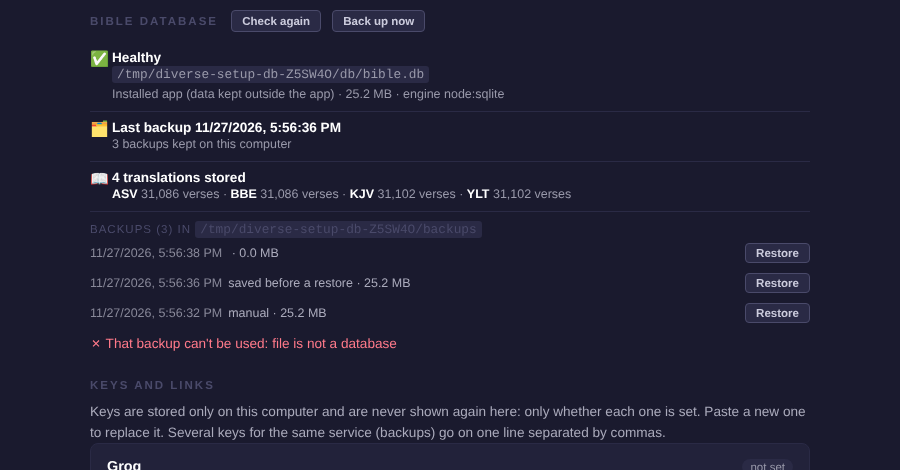
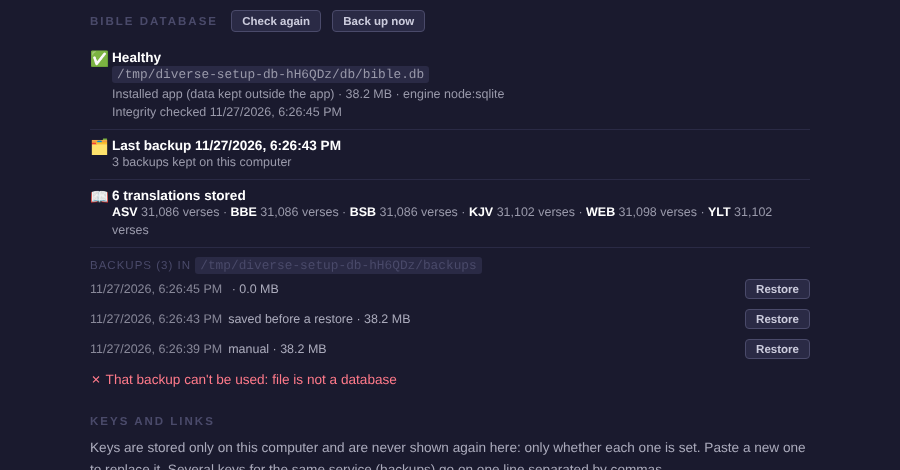
Database health: no blocking integrity check on every Setup load
Measured on a 360 MB library: a full PRAGMA integrity_check takes about
1.8-2.3 s (quick_check 0.5 s), and both run synchronously, so opening
Setup during a service froze projection and listening for that long.

The health report now shows the result and time of the last full check
of the live database (from Check again, or after a restore) and runs a
new one only on request (GET /api/db/health?integrity=1, the Check again
button, whose tooltip warns against using it live). Backups and restores
still check integrity every time. A failed restore clears the stale
result after rolling back. Tests cover: plain report runs no check, a
requested check records result and time, and the last result is
reported afterwards.

diff --git a/public/setup/index.html b/public/setup/index.html
@@ -56,7 +56,7 @@
     <a id="repExport" href="/api/diag/export" class="btn btn-dim" style="padding:4px 10px;font-size:0.72rem;margin-left:6px;letter-spacing:0;text-transform:none;text-decoration:none;">Export</a></h2>
   <div id="report"><p>Loading…</p></div>
 
-  <h2>Bible database <button class="btn btn-dim" style="padding:4px 10px;font-size:0.72rem;margin-left:8px;letter-spacing:0;text-transform:none;" onclick="loadDb()">Check again</button>
+  <h2>Bible database <button class="btn btn-dim" style="padding:4px 10px;font-size:0.72rem;margin-left:8px;letter-spacing:0;text-transform:none;" onclick="loadDb(true)" title="Runs a full integrity check: a few seconds on a large library, during which Di.Verse pauses. Avoid during a live service.">Check again</button>
     <button class="btn btn-dim" style="padding:4px 10px;font-size:0.72rem;margin-left:6px;letter-spacing:0;text-transform:none;" onclick="backupNow()">Back up now</button></h2>
   <div id="dbHealth"><p>Checking…</p></div>
   <div id="dbBackups"></div>
@@ -128,18 +128,21 @@
   // Which Bible database is in use, whether it's healthy, what's in it, and its backups
   function mb(b) { return b == null ? '—' : (b / 1048576).toFixed(1) + ' MB'; }
   function dbSay(t, ok) { var m = document.getElementById('dbMsg'); m.className = ok ? 'ok' : 'err'; m.textContent = t; }
-  async function loadDb() {
+  // full: run the full integrity check now (Check again); otherwise show the last result
+  async function loadDb(full) {
     var el = document.getElementById('dbHealth'), bl = document.getElementById('dbBackups');
     try {
-      var h = await (await fetch('/api/db/health')).json();
+      var h = await (await fetch('/api/db/health' + (full ? '?integrity=1' : ''))).json();
       if (h.error) throw new Error(h.error);
       var good = h.exists && h.readable && h.integrity === 'ok';
+      var unchecked = h.exists && h.readable && h.integrity == null;
       var row = function(icon, name, detail) { return '<div class="chk"><div class="dot">' + icon + '</div><div><b>' + esc(name) + '</b><span class="d">' + detail + '</span></div></div>'; };
       el.innerHTML =
-        row(good ? '✅' : '❌', good ? 'Healthy' : (!h.exists ? 'Database file not found' : !h.readable ? 'Database file can\'t be read' : 'Integrity check failed'),
+        row(good ? '✅' : unchecked ? '🔎' : '❌', good ? 'Healthy' : unchecked ? 'Found and readable · integrity not checked yet' : (!h.exists ? 'Database file not found' : !h.readable ? 'Database file can\'t be read' : 'Integrity check failed'),
           '<code>' + esc(h.database) + '</code><br>' + (h.mode === 'packaged' ? 'Installed app (data kept outside the app)' : 'Running from the code folder (development)') +
           ' · ' + mb(h.bytes) + (h.walBytes ? ' + ' + mb(h.walBytes) + ' not yet written in' : '') + ' · engine ' + esc(h.engine) +
-          (h.integrity && h.integrity !== 'ok' ? '<br><span class="err">' + esc(h.integrity) + '</span>' : '')) +
+          (h.integrity && h.integrity !== 'ok' ? '<br><span class="err">' + esc(h.integrity) + '</span>' : '') +
+          (h.integrityCheckedAt ? '<br>Integrity checked ' + esc(new Date(h.integrityCheckedAt).toLocaleString()) : unchecked ? '<br>Press <b style="display:inline">Check again</b> to run the full check (a few seconds on a large library; not during a live service).' : '')) +
         row(h.lastBackup ? '🗂' : '⚠', h.lastBackup ? 'Last backup ' + esc(new Date(h.lastBackup).toLocaleString()) : 'No backup yet',
           h.backups + ' backup' + (h.backups === 1 ? '' : 's') + ' kept on this computer' + (h.lastBackup ? '' : '. Make one before importing or removing a translation.')) +
         row('📖', h.translations.length + ' translation' + (h.translations.length === 1 ? '' : 's') + ' stored',

diff --git a/services/dbBackup.js b/services/dbBackup.js
@@ -32,6 +32,12 @@ const NAME = /^bible-[0-9TZ-]+(?:-[a-z0-9-]{1,40})?(?:-\d+)?\.db$/;
 
 const quote = p => "'" + String(p).replace(/'/g, "''") + "'";
 
+// The last full integrity check of the live database: { result, at }.
+// A full check of a large library takes seconds and blocks the server, so
+// the Setup page shows this instead of re-checking on every load; it is
+// refreshed by "Check again", and after every restore.
+let lastCheck = null;
+
 // 'ok', or what SQLite found wrong (first few lines)
 function integrity(db) {
   const rows = db.prepare('PRAGMA integrity_check').all();
@@ -139,12 +145,14 @@ function restore(name, confirm) {
     try {
       swapIn(file);
       const result = integrity(bibleDb.getDb());
+      lastCheck = { result, at: new Date().toISOString() };
       if (result !== 'ok') throw new Error('integrity check after restore failed: ' + result);
     } catch (err) {
       // put the previous database back
       try { bibleDb.closeDb(); } catch (e) {}
       swapIn(path.join(DIR, safety.name));
       bibleDb.getDb();
+      lastCheck = null;   // the failed check was of the file that was taken out again
       afterReopen();
       throw new Error('Restore failed (' + err.message + '). The previous database is back in place.');
     }
@@ -155,7 +163,9 @@ function restore(name, confirm) {
 }
 
 // What the operator sees under Setup → Bible database
-function health() {
+// options.integrity: run a full integrity check now (seconds on a large
+// library, and nothing else is served meanwhile); otherwise report the last one
+function health(options = {}) {
   const file = bibleDb.DB_PATH;
   const out = {
     mode: paths.packaged ? 'packaged' : 'development',
@@ -169,7 +179,9 @@ function health() {
   try { out.walBytes = fs.statSync(file + '-wal').size; } catch (e) { out.walBytes = 0; }
   try {
     const db = bibleDb.getDb();
-    out.integrity = integrity(db);
+    if (options.integrity) lastCheck = { result: integrity(db), at: new Date().toISOString() };
+    out.integrity = lastCheck ? lastCheck.result : null;          // null = not checked since Di.Verse started
+    out.integrityCheckedAt = lastCheck ? lastCheck.at : null;
     const counts = Object.fromEntries(db.prepare('SELECT translation, COUNT(*) AS c FROM verses WHERE substr(source, 1, 3) != \'ai_\' GROUP BY translation').all().map(r => [r.translation, r.c]));
     const meta = Object.fromEntries(db.prepare('SELECT code, name, coverage, source, installed_at FROM translation_meta').all().map(m => [m.code, m]));
     const local = bibleDb.localTranslations();
@@ -188,4 +200,4 @@ function health() {
   return out;
 }
 
-module.exports = { create, list, restore, health, checkFile, DIR };
+module.exports = { create, list, restore, health, checkFile, DIR, _resetLastCheck: () => { lastCheck = null; } };

diff --git a/test/helpers/backupScenario.js b/test/helpers/backupScenario.js
@@ -70,7 +70,7 @@ module.exports = function run(expectedEngine) {
     assert.strictEqual(backup.list().length, before + 1);
     assert.match(r.safetyBackup, /before-restore/);
     assert.strictEqual(countIn(path.join(backup.DIR, r.safetyBackup), 'TST'), 0, 'safety backup is the database that was replaced');
-    assert.strictEqual(backup.health().integrity, 'ok');
+    assert.strictEqual(backup.health({ integrity: true }).integrity, 'ok');
     assert.ok(!fs.existsSync(bibleDb.DB_PATH + '.restoring'));
   });
 
@@ -92,7 +92,7 @@ module.exports = function run(expectedEngine) {
     const n = count('TST');
     assert.throws(() => backup.restore(bad, bad), /can't be used/);
     assert.strictEqual(count('TST'), n);
-    assert.strictEqual(backup.health().integrity, 'ok');
+    assert.strictEqual(backup.health({ integrity: true }).integrity, 'ok');
   });
 
   test('a missing backup and a database that is not a Bible are refused', () => {
@@ -116,11 +116,17 @@ module.exports = function run(expectedEngine) {
       assert.throws(() => backup.restore(first.name, first.name), /Restore failed \(simulated broken file\)\. The previous database is back/);
     } finally { bibleDb.getDb = real; }
     assert.strictEqual(count('TST'), 0, 'the database from before the restore is in place');
-    assert.strictEqual(backup.health().integrity, 'ok');
+    assert.strictEqual(backup.health({ integrity: true }).integrity, 'ok');
   });
 
   test('health reports the active database and its translations', () => {
-    const h = backup.health();
+    backup._resetLastCheck();
+    const quick = backup.health();
+    assert.strictEqual(quick.integrity, null, 'a plain health report does not run the slow check');
+    const h = backup.health({ integrity: true });
+    assert.strictEqual(h.integrity, 'ok');
+    assert.ok(h.integrityCheckedAt);
+    assert.strictEqual(backup.health().integrity, 'ok', 'the last result is reported afterwards');
     assert.strictEqual(h.database, bibleDb.DB_PATH);
     assert.strictEqual(h.mode, 'packaged'); // DIVERSE_DATA is set
     assert.ok(h.exists && h.readable);

diff --git a/test/translation-persistence.test.js b/test/translation-persistence.test.js
@@ -92,7 +92,7 @@ test('it is still there after the server restarts', async () => {
 });
 
 test('database health is operator-only data and reports the translation', async () => {
-  const h = await (await fetch(base + '/api/db/health')).json(); // loopback = operator laptop
+  const h = await (await fetch(base + '/api/db/health?integrity=1')).json(); // loopback = operator laptop
   assert.strictEqual(h.integrity, 'ok');
   assert.ok(h.database.startsWith(temp.dir));
   assert.ok(h.translations.find(x => x.code === 'TST' && x.verses === 174));

diff --git a/routes/database.js b/routes/database.js
@@ -8,7 +8,8 @@ const backup = require('../services/dbBackup');
 router.use('/db', (req, res, next) => req.app.locals.isOperator(req) ? next()
   : res.status(403).json({ error: 'Operator laptop only' }));
 
-router.get('/db/health', (req, res) => res.json(backup.health()));
+// ?integrity=1 runs a full integrity check now (Setup -> Check again)
+router.get('/db/health', (req, res) => res.json(backup.health({ integrity: req.query.integrity === '1' })));
 
 router.get('/db/backups', (req, res) => res.json({ backups: backup.list() }));
 
